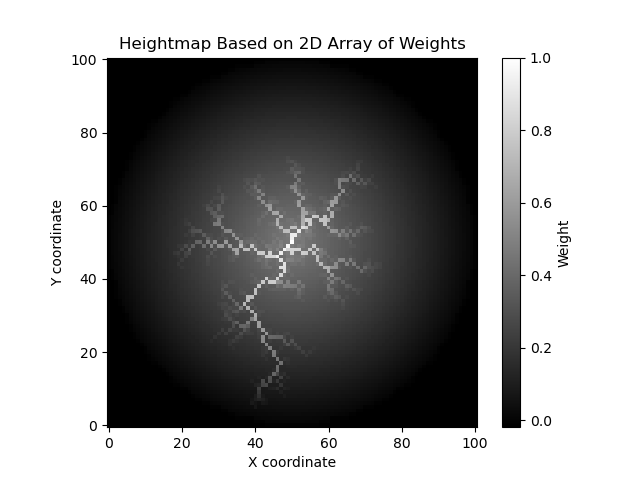
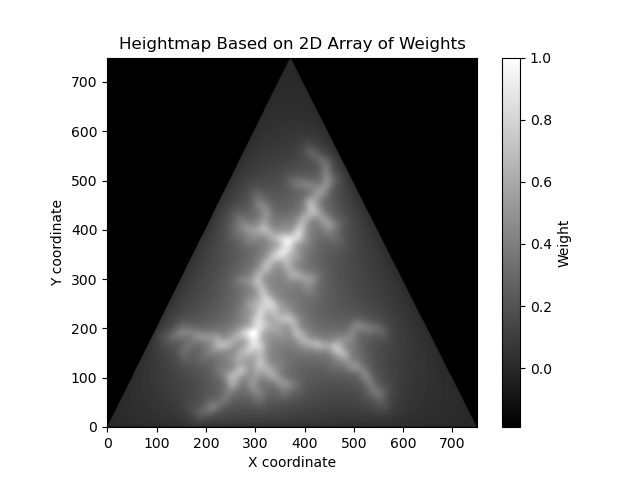
Removed images, Added gradual blur

diff --git a/dla_noise.py b/dla_noise.py
@@ -864,29 +864,11 @@ def gaussian_blur(image: Image, standard_deviation: int | float) -> Image:
     return new_image
 
 
-def distance_height(image: Image) -> Image:
-    new_image = Image(Border(image.border.border_points))
-
-    def calculate_distance(start_x, start_y, end_x, end_y):
-        return math.sqrt((start_x - end_x) ** 2 + (start_y - end_y) ** 2)
-
-    distances = []
-    origin_x, origin_y = image.origin.coordinates
-    for x, y in new_image.bounded_coordinates():
-        distances.append((new_image.get_pixel_id_from_coordinates(x, y), calculate_distance(x, y, origin_x, origin_y)))
-
-    maximum_distance = max(distance for _, distance in distances)
-    for index, distance in distances:
-        x, y = new_image.get_pixel_coordinates_from_id(index)
-        new_image[x, y].weight = (maximum_distance - distance) * 3
-
-    return new_image
-
-def create_dla_noise(seed: int, initial_size: int, end_size: int, initial_density_threshold: float, density_falloff_extremity: float, density_falloff_bias: float, use_concurrent_walkers: bool, walks_per_concurrent_walker: int, upscale_factor: int, size_upscale_mode: str, jitter_range: int, height_goal: float, smoothness: int, height_falloff_mode: str = "exponential", smooth_detail_falloff: Optional[int | float] = None, exponential_detail_falloff: Optional[int | float] = None) -> List[Image]:
+def create_dla_noise(seed: int, initial_size: int, end_size: int, initial_density_threshold: float, density_falloff_extremity: float, density_falloff_bias: float, use_concurrent_walkers: bool, walks_per_concurrent_walker: int, upscale_factor: int, size_upscale_mode: str, jitter_range: int, height_goal: float, minimum_blur: int | float, maximum_blur: int | float, height_falloff_mode: str = "exponential", smooth_detail_falloff: Optional[int | float] = None, exponential_detail_falloff: Optional[int | float] = None) -> List[Image]:
     images = []
 
-    image = Image(Border.circle(initial_size))
-    image_sum = Image(Border.circle(initial_size))
+    image = Image(Border.triangle(initial_size))
+    image_sum = Image(Border.triangle(initial_size))
 
     random.seed(seed)
 
@@ -943,12 +925,15 @@ def create_dla_noise(seed: int, initial_size: int, end_size: int, initial_densit
         image_with_height = calculate_heights(image, height_goal, falloff_mode=height_falloff_mode, smooth_detail_falloff=smooth_detail_falloff, exponential_detail_falloff=exponential_detail_falloff)
         images.append(copy.copy(image_with_height))
 
-        if DEBUG:
-            print(f"Step: {step + 1} :: Jittering")
-        image_with_jittered_lines = jitter_lines(image_with_height, jitter_range)
-        images.append(copy.copy(image_with_jittered_lines))
+        if jitter_range != 0:
+            if DEBUG:
+                print(f"Step: {step + 1} :: Jittering")
+            image_with_jittered_lines = jitter_lines(image_with_height, jitter_range)
+            images.append(copy.copy(image_with_jittered_lines))
 
-        image_sum += image_with_jittered_lines
+            image_sum += image_with_jittered_lines
+        else:
+            image_sum += image_with_height
 
         if DEBUG:
             print(f"Step: {step + 1} :: Size Upscaling")
@@ -960,16 +945,18 @@ def create_dla_noise(seed: int, initial_size: int, end_size: int, initial_densit
         else:
             raise ValueError(f"Unknown size upscale mode {size_upscale_mode}")
 
-        if DEBUG:
-            print(f"Step: {step + 1} :: Crisp Upscaling")
-        image = crisp_upscale(image, int(image.size * upscale_factor))
+        if step < steps - 1:
+            if DEBUG:
+                print(f"Step: {step + 1} :: Crisp Upscaling")
+            image = crisp_upscale(image, int(image.size * upscale_factor))
 
         if DEBUG:
             print(f"Step: {step + 1} :: Applying Blur")
-        image_sum = gaussian_blur(image_sum, smoothness)
 
-        if step == steps - 1:
-            image_sum += distance_height(image) # TODO: Replace this with worley noise
+        for point in curve:
+            if abs(step - point[0]) < 0.001:
+                step_blur = (maximum_blur * point[1]) + minimum_blur
+        image_sum = gaussian_blur(image_sum, step_blur)
 
     return images + [image_sum]
 
@@ -988,7 +975,7 @@ def display_image(image: Image) -> None:
 def main():
     start_time = time.time()
 
-    images = create_dla_noise(seed=random.randint(0, 1000), initial_size=100, end_size=1000, initial_density_threshold=0.1, density_falloff_extremity=2, density_falloff_bias=1 / 2, use_concurrent_walkers=True, walks_per_concurrent_walker=100, upscale_factor=2, size_upscale_mode="bilinear", jitter_range=0, height_goal=3000, smoothness=8, height_falloff_mode="smooth", smooth_detail_falloff=15)
+    images = create_dla_noise(seed=random.randint(0, 1000), initial_size=100, end_size=1000, initial_density_threshold=0.1, density_falloff_extremity=1, density_falloff_bias=1 / 2, use_concurrent_walkers=True, walks_per_concurrent_walker=100, upscale_factor=1.5, size_upscale_mode="bilinear", jitter_range=1, height_goal=1000, minimum_blur=7, maximum_blur=30, height_falloff_mode="smooth", smooth_detail_falloff=70)
 
     end_time = time.time()
     print(f"Image generation time: {end_time - start_time} seconds")
@@ -1000,7 +987,7 @@ def main():
 
 def test():
     # random.seed(0)
-    image = Image(Border.triangle(100))
+    image = Image(Border.circle(100))
 
     image[image.size // 2, image.size // 2].frozen = True
     image.origin = image.grid[image.size // 2][image.size // 2]
@@ -1019,14 +1006,12 @@ def test():
     u4 = crisp_upscale(u3, int(u3.size * scale_factor))
     # print(u4.traversable())
 
-    # display_image(image)
-    # display_image(u1)
-    # display_image(u2)
-    # display_image(u3)
-    # display_image(u4)
-    # display_image(calculate_heights(u4, 300, falloff_mode="exponential", exponential_detail_falloff=2))
-
-    display_image(calculate_heights(image, 3000, smooth_detail_falloff=15) + distance_height(image))
+    display_image(image)
+    display_image(u1)
+    display_image(u2)
+    display_image(u3)
+    display_image(u4)
+    display_image(calculate_heights(u4, 300, falloff_mode="exponential", exponential_detail_falloff=2))
 
 
 if __name__ == "__main__":
